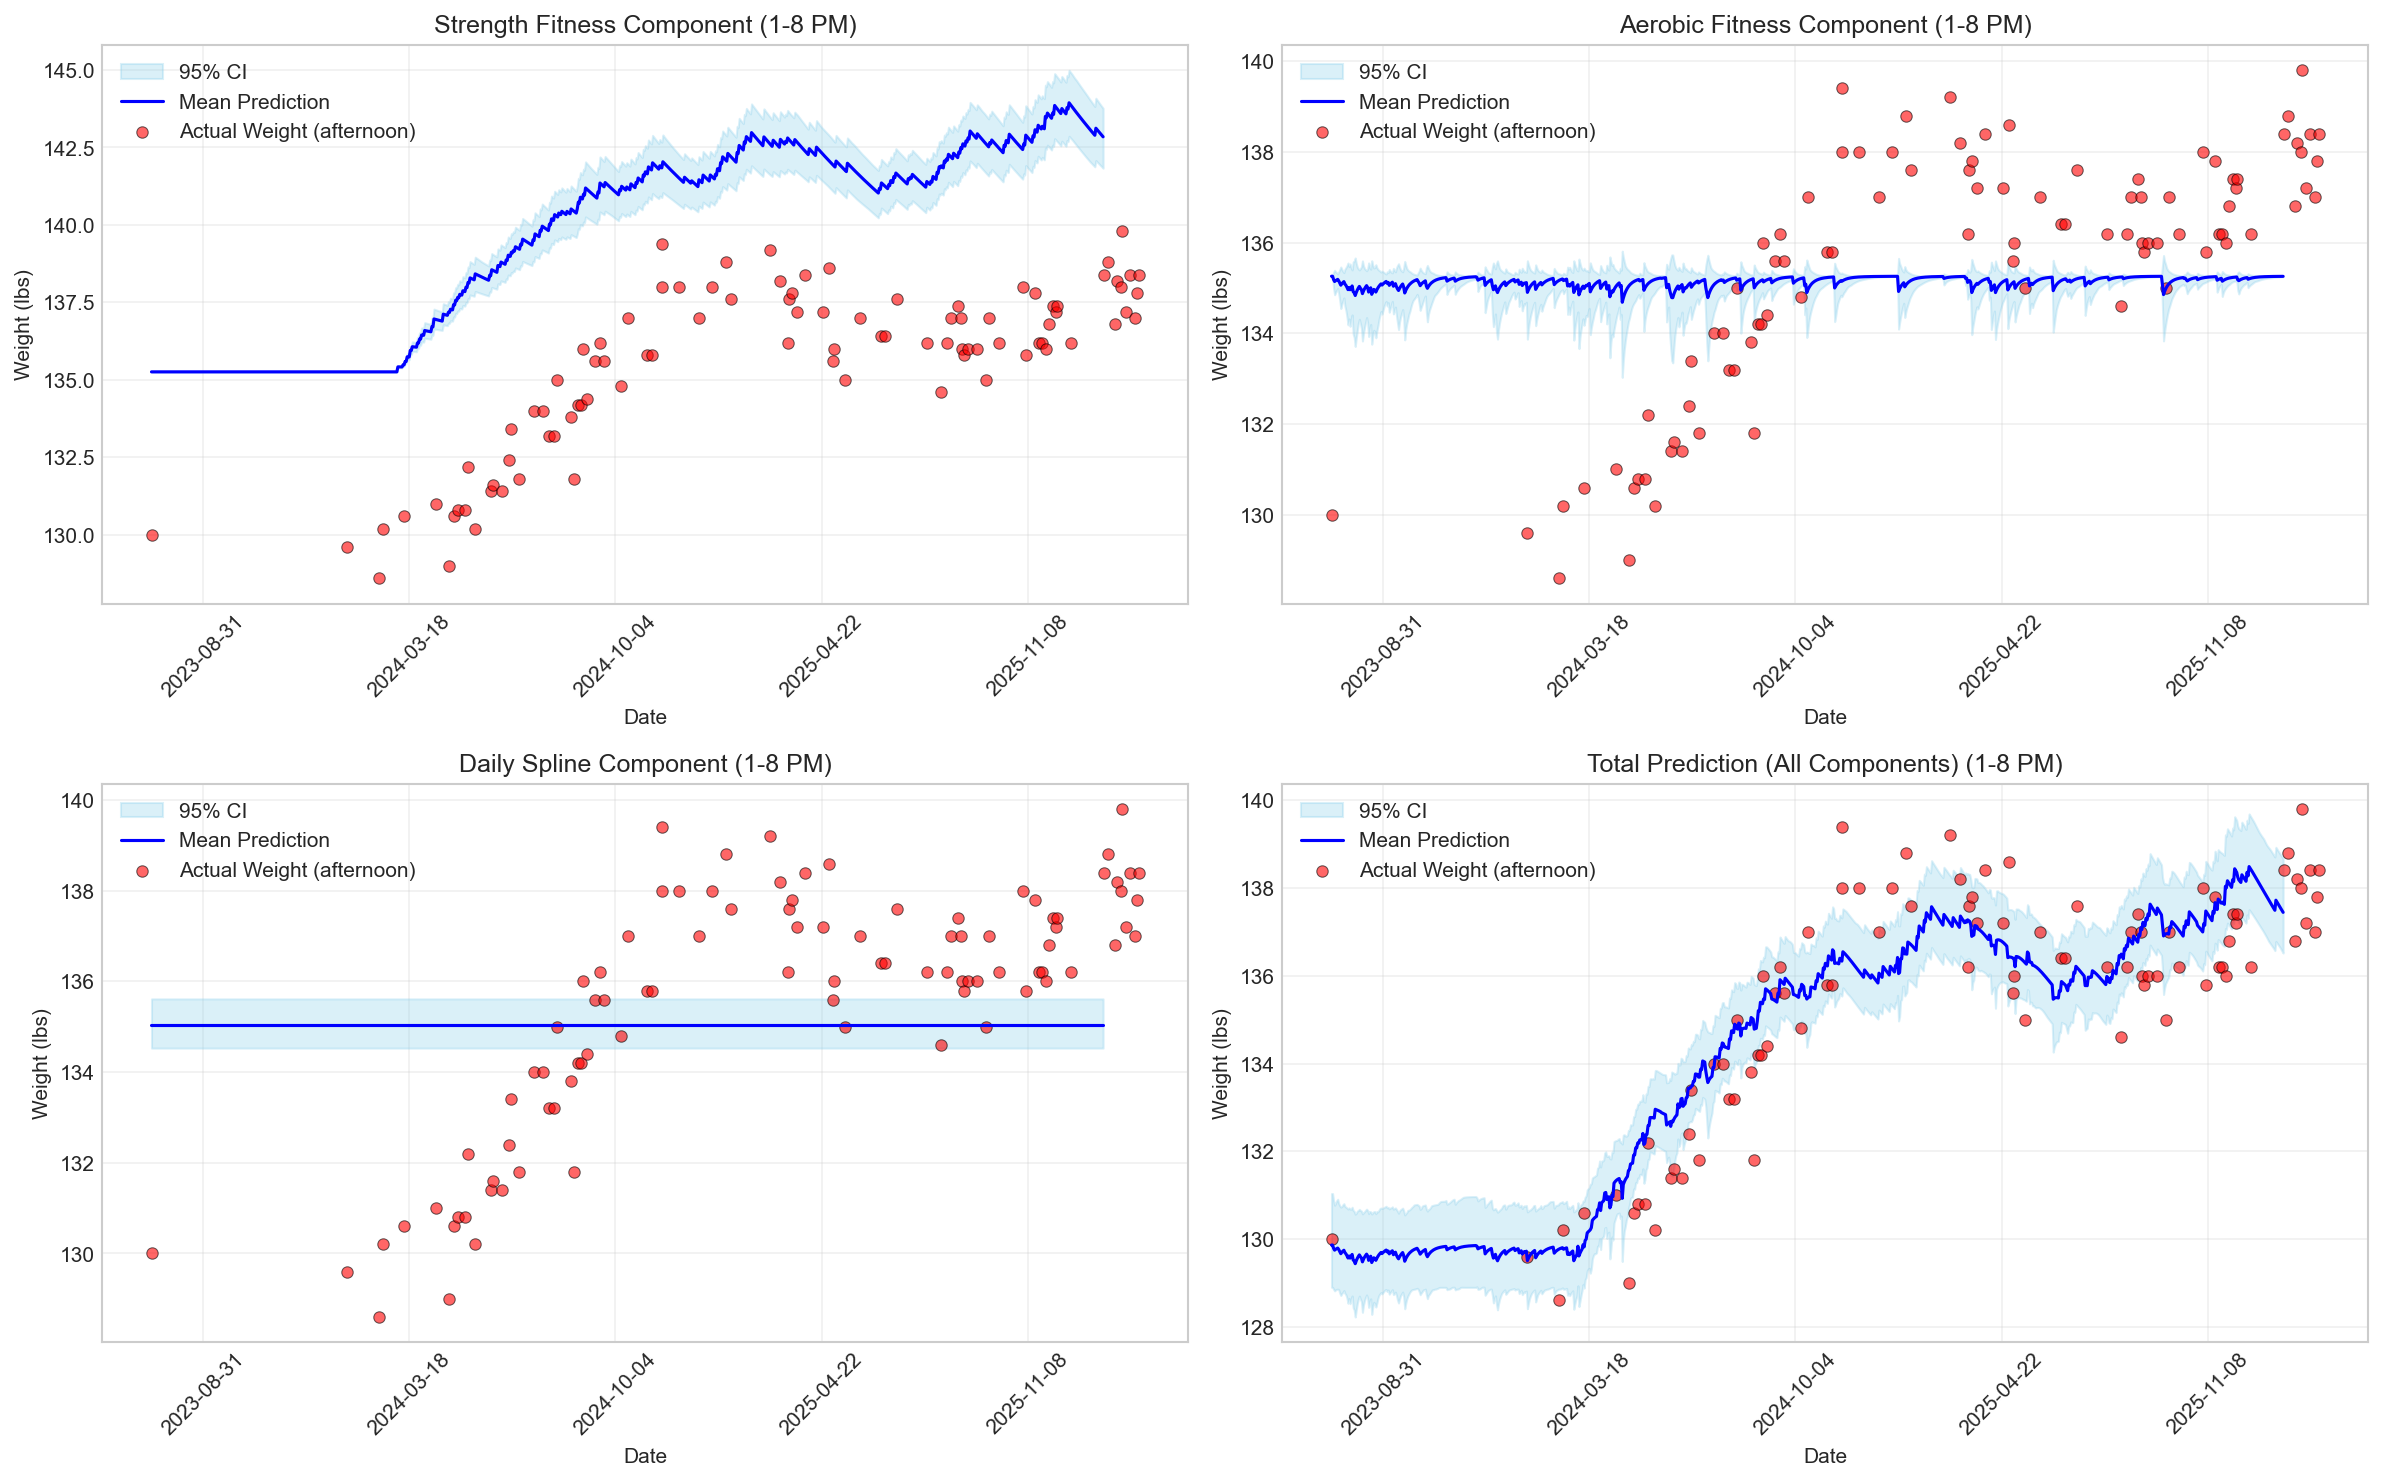
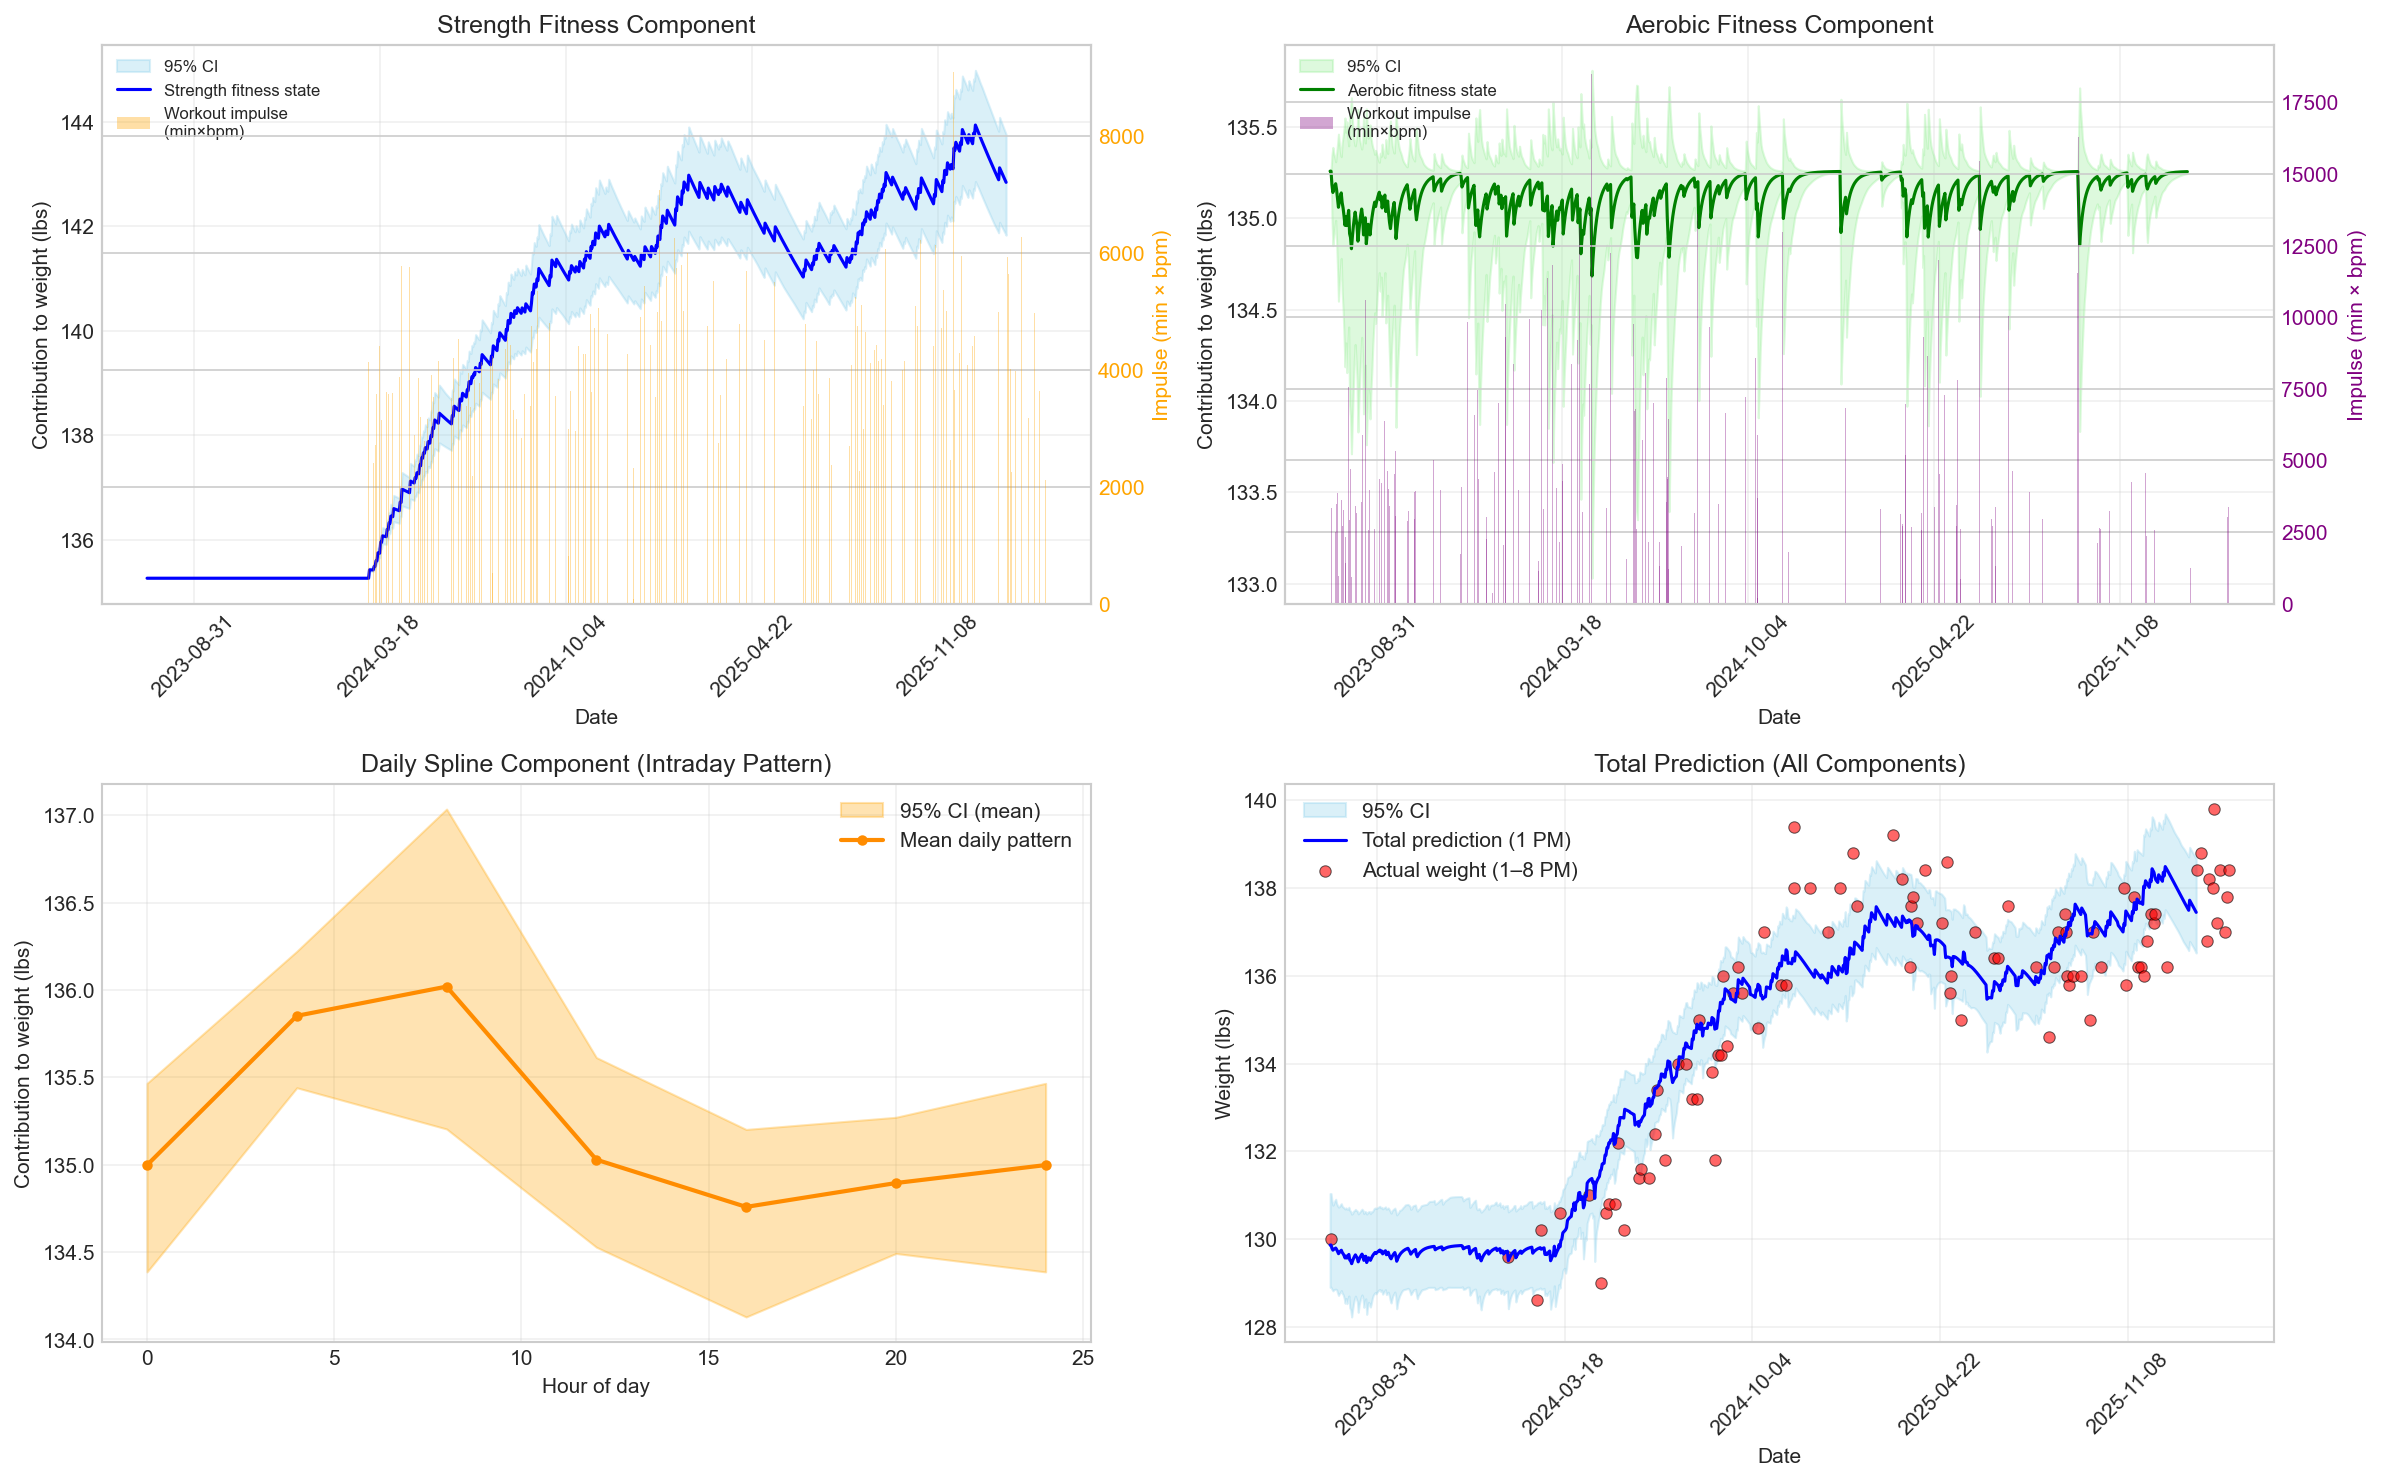
chore: regenerate plots and update report with AR(1) visualization
- Regenerated component_time_series_noon_lbs.png with new panel design
- Added ar1_component_lbs.png (residuals, lag-1 scatter, ACF)
- Removed stale non-lbs plot files (lbs versions are canonical)
- Removed component_contributions_sample_dates plots (deleted from script)
- Updated report HTML: remove sample-date section, add AR(1) section

diff --git a/docs/constrained_ar_model_report/index.html b/docs/constrained_ar_model_report/index.html
@@ -88,7 +88,7 @@
         <div class="header text-center">
             <h1 class="display-4">Constrained AR(1) Spline Model</h1>
             <p class="lead">Interpretability Report and Model Documentation</p>
-            <p class="mb-0">Generated: 2026-03-09 | Bayesian State-Space Analysis of Garmin Health Data</p>
+            <p class="mb-0">Generated: 2026-03-10 | Bayesian State-Space Analysis of Garmin Health Data</p>
         </div>
 
         <!-- Table of Contents -->
@@ -629,7 +629,7 @@
         <div class="section text-center">
             <hr>
             <p class="text-muted">
-                Generated on 2026-03-09. Model: constrained_ar_spline.
+                Generated on 2026-03-10. Model: constrained_ar_spline.
                 <br>Stan file: <code>weight_state_space_training_decay_aerobic_symmetric_student_ar_spline_constrained.stan</code>
                 <br><a href="../index.html">Back to main index</a>
             </p>
